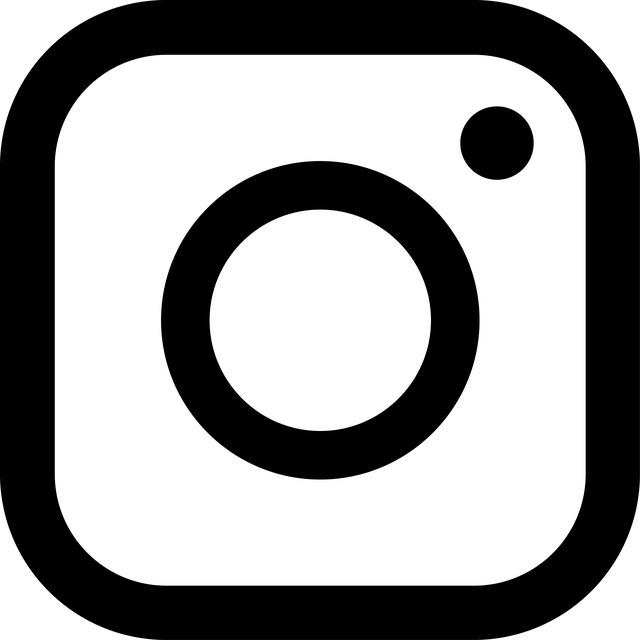
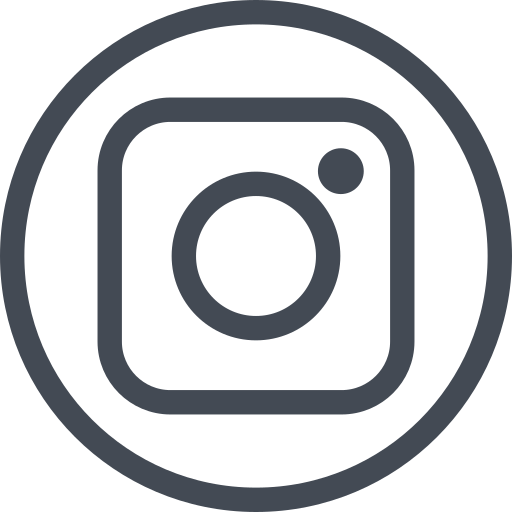
correción de iconos en navbar y footer

diff --git a/src/components/organisms/Navbar.jsx b/src/components/organisms/Navbar.jsx
@@ -7,8 +7,8 @@ const Navbar = () => {
   return (
     <>
     <nav className="fixed z-10 flex flex-col w-full h-auto bg-navbarColor opacity-95 md:bg-transparent md:sticky-top navbar navbar-expand-lg navbar-light">
-      <div className="flex flex-wrap p-1">
-        <button className="py-3 pl-5 navbar-toggler sm:z-40" type="button" data-bs-toggle="collapse" data-bs-target="#navbarSupportedContent"
+      <div className="flex flex-wrap justify-between px-2">
+        <button className="flex px-3 py-3 navbar-toggler sm:z-40" type="button" data-bs-toggle="collapse" data-bs-target="#navbarSupportedContent"
           aria-controls="navbarSupportedContent" aria-expanded="false" aria-label="Toggle navigation">
           <svg aria-hidden="true" focusable="false" data-prefix="fas" data-icon="bars"
           className="w-7" role="img" xmlns="http://www.w3.org/2000/svg" viewBox="0 0 448 512">
@@ -17,33 +17,29 @@ const Navbar = () => {
           </path>
           </svg>
         </button>
-        <div className="justify-end flex-grow collapse navbar-collapse" id="navbarSupportedContent">
+        <div className="flex navbar-nav nav-item md:hidden">
+          <img className='w-14' src="logos/logo.png" alt="logo-jamónxjamón" />
+        </div>
+        <div className="flex-grow p-5 lg:p-0 md:justify-evenly collapse navbar-collapse" id="navbarSupportedContent">
           {/* <!-- Left links --> */}
-          <ul className="flex flex-col navbar-nav list-style-none">
-            <li className="p-6 nav-item">
-              <a className="p-0 text-lg font-light uppercase nav-link hover:text-gray-700 text-pastelColor" href="!#">inicio</a>
-            </li>
-            <li className="p-6 nav-item">
-              <a className="p-0 text-lg font-light uppercase nav-link hover:text-gray-700 text-pastelColor" href="!#">productos</a>
-            </li>
-          </ul>
+            <div className="flex mt-6 navbar-nav nav-item">
+              <a className="font-serif text-lg text-white uppercase nav-link hover:text-gray-700" href="!#">inicio</a>
+            </div>
+            <div className="flex mt-6 navbar-nav nav-item">
+              <a className="p-0 font-serif text-lg text-white uppercase nav-link hover:text-gray-700" href="!#">productos</a>
+            </div>
+            <div className="justify-center navbar-nav nav-item collapse navbar-collapse">
+              <img className='w-20' src="logos/logo.png" alt="logo-jamónxjamón" />
+            </div>
+            <div className='flex mt-6 navbar-nav nav-item'>
+              <a className="p-0 font-serif text-lg font-light text-white uppercase nav-link hover:text-gray-700" href="!#">distribuidores</a>
+            </div>
+            <div className="flex mt-6 navbar-nav nav-item">
+              <a className="p-0 font-serif text-lg text-white uppercase nav-link hover:text-gray-700" href="!#">contacto</a>
+            </div>
         </div>
-        <div className="justify-center flex-grow collapse navbar-collapse">
-        <img className='w-24 ' src="logos/logo.png" alt="logo-jamónxjamón" />
         </div>
-        <div className="justify-start flex-grow collapse navbar-collapse" id="navbarSupportedContent">
-          <ul className='flex flex-col pl-0 navbar-nav list-style-none'>
-            <li className="p-6 nav-item">
-              <a className="p-0 font-serif text-lg font-light uppercase nav-link hover:text-gray-700 text-pastelColor" href="!#">distribuidores</a>
-            </li>
-            <li className="p-6 nav-item">
-              <a className="p-0 text-lg font-light uppercase nav-link hover:text-gray-700 text-pastelColor" href="!#">contacto</a>
-            </li>
-          </ul>
          {/* <!-- Right elements --> */}
-
-        </div>
-      </div>
     </nav>
   </>
   )

diff --git a/src/components/organisms/Seccion4.jsx b/src/components/organisms/Seccion4.jsx
@@ -12,29 +12,29 @@ import img3 from '../../graphics/imagenes/Varios/img3Seccion4.jpg'
 
 const Seccion4 = () => {
   return (
-    <div className='w-full flex bg-[#957C65] items-center p-8 gap-3 flex-col  md:flex-row md:justify-center'>
+    <div className='flex flex-col items-center w-full h-auto gap-3 p-8 bg-white md:flex-row md:justify-center'>
     
-            <div className='p-2 mt-2 flex-auto w-64'>
-                <h3 className='text-fontSecondary sm:text-lg sm:ml-5 sm:mt-9 md:text-lg lg:text-lg 2xl:text-lg font-bold '>Titulo 1</h3>
+            <div className='flex-auto w-64 p-2 mt-2'>
+                <h3 className='font-bold text-fontSecondary sm:text-lg sm:ml-5 sm:mt-9 md:text-lg lg:text-lg 2xl:text-lg '>Titulo 1</h3>
                 <div className='mb-2'> Lorem 1 ipsum dolor sit amet consectetur adipisicing elit. Facere doloremque harum pariatur
                  sunt quisquam, sequi esse excepturi eius maiores nesciunt corrupti voluptas! Tempora
                   obcaecati tenetur soluta dolorum neque, optio voluptas.</div>
-                  <img src={img1} alt="" className='h-25 shadow-md rounded-md border-2' />
+                  <img src={img1} alt="" className='border-2 rounded-md shadow-md h-25' />
                 
             </div>
-            <div className=' p-5 mt-5 flex-auto w-72 '>
-                <img src={banner1} alt="" className='rounded-md border-2' />
-                <h3 className='text-fontSecondary sm:text-lg sm:ml-5 sm:mt-9 md:text-lg lg:text-lg 2xl:text-lg font-bold'>Titulo 2</h3>
+            <div className='flex-auto p-5 mt-5 w-72'>
+                <img src={banner1} alt="" className='border-2 rounded-md' />
+                <h3 className='font-bold text-fontSecondary sm:text-lg sm:ml-5 sm:mt-9 md:text-lg lg:text-lg 2xl:text-lg'>Titulo 2</h3>
                 <div className=''> Lorem 2 ipsum dolor sit amet consectetur adipisicing elit. Facere doloremque harum pariatur
                  sunt quisquam, sequi esse excepturi eius maiores nesciunt corrupti voluptas! Tempora
                   obcaecati tenetur soluta dolorum neque, optio voluptas.</div>
             </div>
-            <div className='p-2 mt-5 flex-auto w-64 '>
-                <h3 className='text-fontSecondary sm:text-lg sm:ml-5 sm:mt-9 md:text-lg lg:text-lg 2xl:text-lg font-bold'>Titulo 3</h3>
+            <div className='flex-auto w-64 p-2 mt-5 '>
+                <h3 className='font-bold text-fontSecondary sm:text-lg sm:ml-5 sm:mt-9 md:text-lg lg:text-lg 2xl:text-lg'>Titulo 3</h3>
                   <div className='mb-2'> Lorem 3 ipsum dolor sit amet consectetur adipisicing elit. Facere doloremque harum pariatur
                  sunt quisquam, sequi esse excepturi eius maiores nesciunt corrupti voluptas! Tempora
                   obcaecati tenetur soluta dolorum neque, optio voluptas.</div>
-                  <img src={img3} alt="" className='rounded-md border-2 mb-2'/>
+                  <img src={img3} alt="" className='mb-2 border-2 rounded-md'/>
             </div>
     </div>
   )

diff --git a/src/components/molecules/FooterLinkContainer.jsx b/src/components/molecules/FooterLinkContainer.jsx
@@ -2,21 +2,21 @@
 import React from 'react'
 import FooterLinkIcon from '../atoms/FooterLinkIcon'
 
-import logoEmail from '../../graphics/imagenes/iconos/iconoEmail.png'
-import logoFacebook from '../../graphics/imagenes/iconos/iconoFacebook.png'
-import logoInstagram from '../../graphics/imagenes/iconos/iconoInstagram.png'
-import logoWhatsapp from '../../graphics/imagenes/iconos/iconoWhatsapp.png'
+import logoEmail1 from '../../graphics/imagenes/iconos/iconoEmail1.png'
+import logoFacebook1 from '../../graphics/imagenes/iconos/iconoFacebook1.png'
+import logoInstagram1 from '../../graphics/imagenes/iconos/iconoInstagram1.png'
+import logoWhatsapp1 from '../../graphics/imagenes/iconos/iconoWhatsapp1.png'
 
 
 
 
 const FooterLinkContainer = () => {
   return (
-    <div className='flex flex-row justify-center w-auto h-auto md:flex-row md:flex-wrap'>
-        <FooterLinkIcon icono={logoEmail} link="https://www.google.com.ar/?hl=es"/>
-        <FooterLinkIcon icono={logoFacebook} link="https://www.facebook.com/" />
-        <FooterLinkIcon icono={logoInstagram} link="https://www.instagram.com/" />
-        <FooterLinkIcon icono={logoWhatsapp} link= "https://www.whatsapp.com/"/>           
+    <div className='flex flex-row justify-end w-auto h-auto md:flex-row md:flex-wrap'>
+        <FooterLinkIcon icono={logoEmail1} link="https://www.google.com.ar/?hl=es"/>
+        <FooterLinkIcon icono={logoFacebook1} link="https://www.facebook.com/" />
+        <FooterLinkIcon icono={logoInstagram1} link="https://www.instagram.com/" />
+        <FooterLinkIcon icono={logoWhatsapp1} link= "https://www.whatsapp.com/"/>           
     </div>
   )
 }

diff --git a/src/components/molecules/FooterBottom.jsx b/src/components/molecules/FooterBottom.jsx
@@ -5,31 +5,28 @@ import React from 'react'
 
 const FooterBottom = () => {
   return (
-    <div className='bg-skinColor'>
-        <div className='h-3/4'>
-            <div className='flex h-3/4 justify-evenly'>
-                <div className='w-1/2 h-auto md:h-48'>
-                    <p className='font-mono text-sm text-center text-pastelColor'>
+    <div className='w-full h-full p-5 bg-skinColor'>
+            <div className='flex justify-between py-10 h-1/2'>
+                <div className='flex justify-center w-2/4 h-auto'>
+                    <p className='font-mono text-xs text-pastelColor'>
                         Teléfonos: <br />
                         0303 - 456 <br />
                         011 - 111222 <br /> <br />
                     </p>
                 </div>
-                <div className='w-1/2 h-auto'>
+                <div className='flex justify-center h-auto md:w-1/2'>
                    <FooterLinkContainer/> 
                 </div>
             </div>
 
-            <div className='flex flex-col text-center align-bottom h-1/4'>
-                <p className='font-mono text-sm text-pastelColor'>
+            <div className='flex flex-col w-full text-center align-bottom h-1/4'>
+                <p className='font-mono text-xs text-pastelColor'>
                     Email: vintageGentlemen@gmail.com
                 </p>
                 <p className='font-mono text-xs text-pastelColor'>
                     Powered By: La estación de Poder
                 </p>
             </div>
-        </div>
-
 
     </div>
   )

diff --git a/src/components/organisms/Main.jsx b/src/components/organisms/Main.jsx
@@ -8,8 +8,21 @@ const Main = () => {
   return (
     <>
     
-    <div style={{backgroundImage: "url(bgbanner/banner3.png)"}} className="min-w-full min-h-screen mt-0 bg-fixed bg-center bg-no-repeat bg-cover">
+    <div style={{backgroundImage: "url(bgbanner/banner1.png)"}} className="flex flex-col h-auto min-w-full min-h-screen mt-0 bg-fixed bg-center bg-no-repeat bg-cover md:justify-between">
         <Navbar/>
+        <div className='flex flex-col justify-end w-auto h-full text-justify text-skinColor p-14'>
+          <div className='flex justify-start w-1/4 h-auto align-middle md:w-1/3'>
+            <h1 className='py-16 text-4xl font-extrabold text-center md:py-10'>
+              jamón x jamón
+            </h1>
+          </div>
+          <div className='flex justify-center w-1/2 h-auto align-bottom'>
+            <h2 className='w-full text-lg text-start md:text-justify'>
+              venta y distribución de Jamón Crudo.<br />
+              importados y nacionales
+            </h2>
+          </div>
+        </div>
     </div>
     </>
    

diff --git a/src/components/organisms/Seccion5.jsx b/src/components/organisms/Seccion5.jsx
@@ -6,9 +6,9 @@ import imagenSec5 from '../../graphics/imagenes/Varios/images2.jpg'
 const Seccion5 = () => {
   return (
     
-    <div className='w-full flex bg-[#957C65] items-center p-8 gap-3 flex-col  md:flex-row md:justify-center'>
-        <img className='h-96 shadow-md rounded-md border-2 border-black' src={imagenSec5} alt="" />
-        <div className='text-fontSecondary text-base font-normal md:w-1/3'>
+    <div className='flex flex-col items-center w-full h-auto gap-3 p-8 bg-white md:flex-row md:justify-center'>
+        <img className='border-2 border-black rounded-md shadow-md h-96' src={imagenSec5} alt="" />
+        <div className='text-base font-normal text-fontSecondary md:w-1/3'>
             <h3 className='text-2xl font-bold'>El encabezado de tu seccion va acá</h3>
             <br />
             <br />

diff --git a/src/components/atoms/FooterLinkIcon.jsx b/src/components/atoms/FooterLinkIcon.jsx
@@ -5,7 +5,7 @@ const FooterLinkIcon = (props) => {
 
   return (
     <>
-    <a className='self-center' href={props.link}> <img className='h-10 md:h-16 md:hover:scale-125 md:transition md:duration-300 md:ease-in-out md:px-8' src={props.icono} alt="imagen" /></a>
+    <a className='self-center' href={props.link}> <img className='w-16 px-2 md:hover:scale-125 md:transition md:duration-300 md:ease-in-out' src={props.icono} alt="imagen" /></a>
     </>
   )
 }

diff --git a/src/components/organisms/Seccion3.jsx b/src/components/organisms/Seccion3.jsx
@@ -4,8 +4,8 @@ import banner from '../../graphics/imagenes/Varios/banner.jpg'
 
 function Seccion3(){
   return (
-    <div className='flex justify-center w-full bg-backgroundSeccion3'>
-        <img className='w-full' src={banner} alt="" />
+    <div className='flex justify-center w-full h-full md:bg-backgroundSeccion3'>
+        <img className='w-full h-full' src={banner} alt="" />
     </div>
   )
 }
